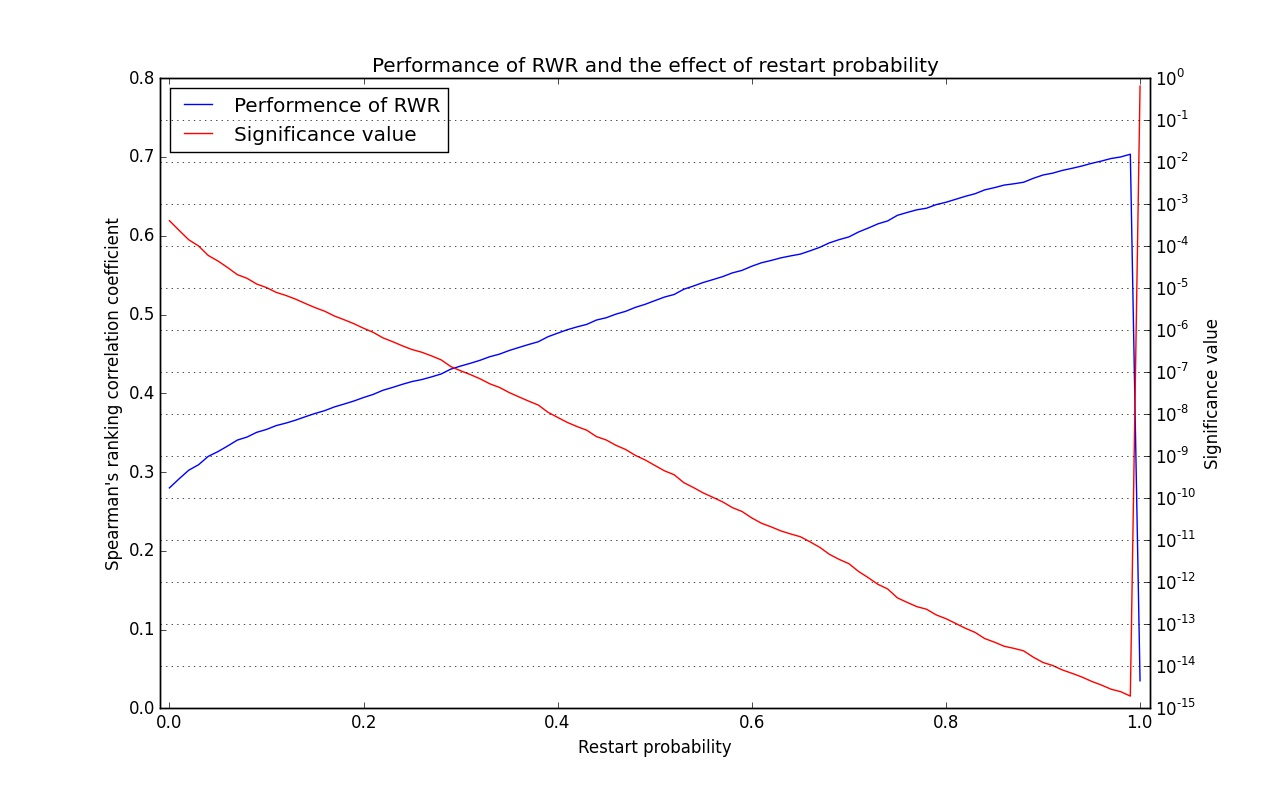
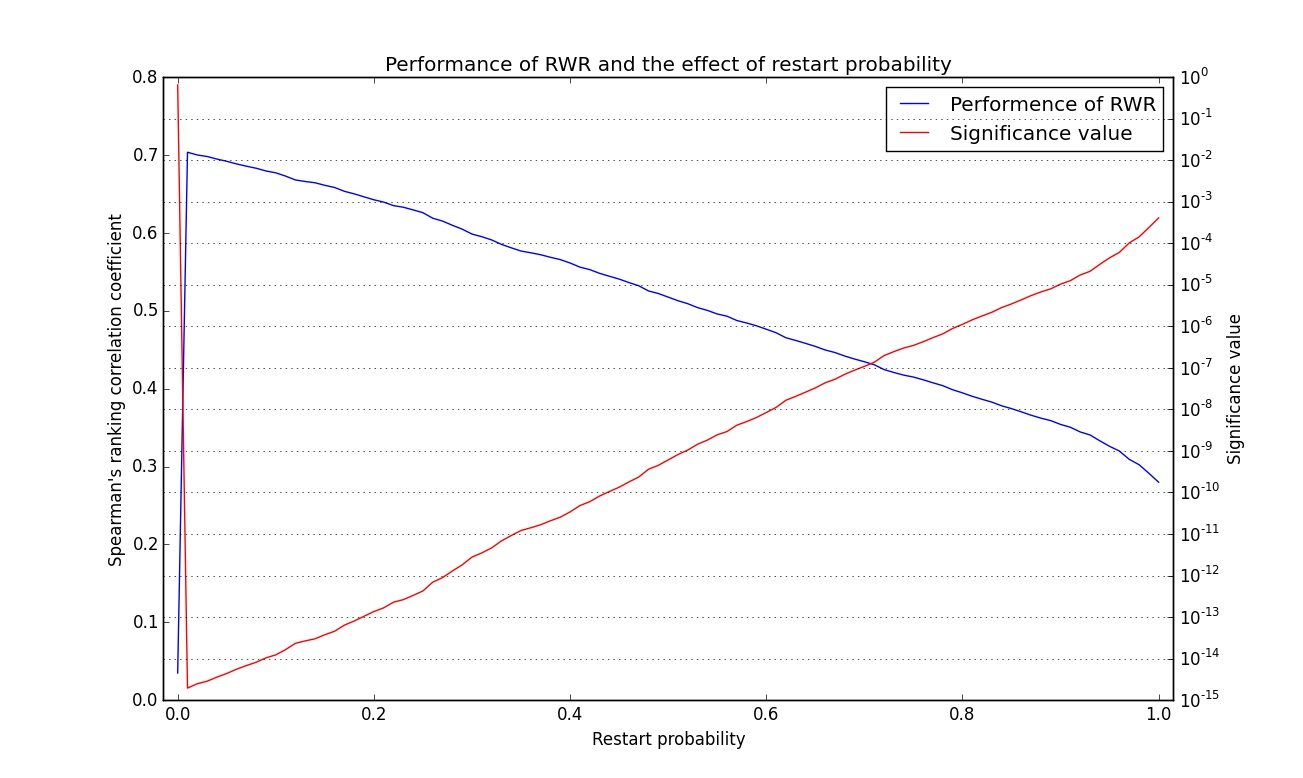
minor update

diff --git a/Programs/modules.py b/Programs/modules.py
@@ -64,12 +64,12 @@ def get_ranks_rwr(q, c, W):
 	W = normalize(W, norm='l1', axis=0)
 	#Basic Random Walk with Restarts Algorithm.
 	r = q
-	r1 = (1-c)*(r*W) + c*q
+	r1 = c*(r*W) + (1-c)*q
 	i=0
 	# Iterations of Random Walk Algorithm.
 	while (r1-r).dot((r1-r).T) > 1e-5:
 		r = r1
-		r1 = (1-c)*(r*W) + c*q
+		r1 = c*(r*W) + (1-c)*q
 		i= i+1
 	return r1
 

diff --git a/Programs/rank.py b/Programs/rank.py
@@ -45,7 +45,7 @@ if __name__ == '__main__':
 	ax2.set_yscale('log')
 	h1, l1 = ax1.get_legend_handles_labels()
 	h2, l2 = ax2.get_legend_handles_labels()
-	ax1.legend(h1+h2, l1+l2, loc=2)
+	ax1.legend(h1+h2, l1+l2)
 	plt.grid()
 	plt.show()
 
